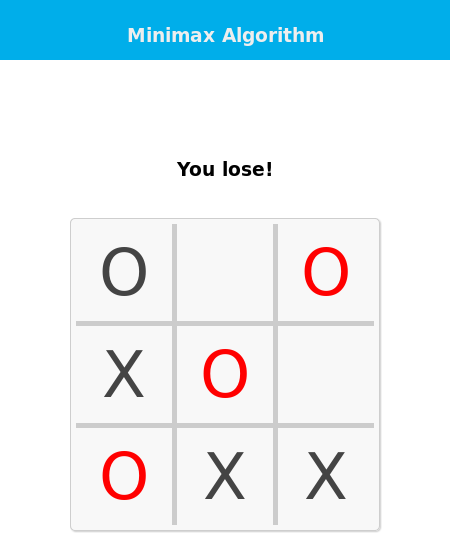
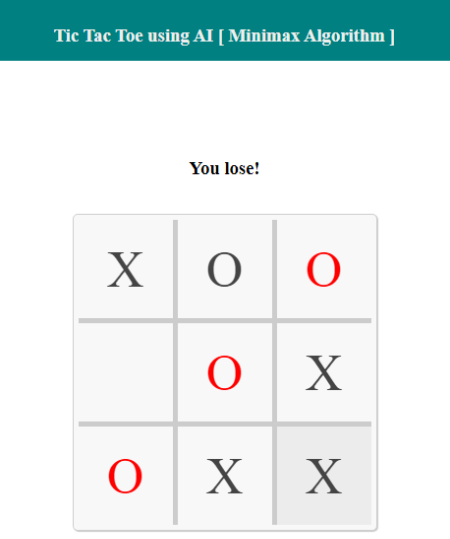
Updated

diff --git a/index.html b/index.html
@@ -17,7 +17,7 @@
 	</head>
 	<body>
 		<header>
-			<p>Implementing Tic Tac Toe using AI [ Minimax Algorithm ]</p>
+			<p>Tic Tac Toe using AI [ Minimax Algorithm ]</p>
 		</header>
 			<br />
 			<p id="message"></p>
@@ -28,7 +28,7 @@
 			<tr><td id="20" onclick="clickedCell(this)"></td><td id="21" onclick="clickedCell(this)"></td><td id="22" onclick="clickedCell(this)"></td></tr>
 		</table>
 		<br><br>
-		<input type="button" value="Start AI" id="bnt-restart" onclick="restartBnt(this)"/>
+		<input type="button" value="AI Player: Start" id="bnt-restart" onclick="restartBnt(this)"/>
 		<br />
 		<footer>
 			<p>About the Minimax Algorithm Read more on: <a href="https://github.com/iamrobbiejr/IIT414-TICTACTOE/blob/main/README.md">My Github</a></p>

diff --git a/web_assets/style.css b/web_assets/style.css
@@ -5,7 +5,7 @@ body {
 }
 
 header {
-	background-color: #00AEEA;
+	background-color: #008080;
 	color: #eee;
 	text-align: center;
 	height: 60px;
@@ -92,7 +92,7 @@ a:visited {
 	margin-left: auto;
 	margin-right: auto;
 	width: 200px;
-	background: #00AEEA;
+	background: #008080;
 	font-size: 1.5em;
 	color: #FFF;
 	border: none;
@@ -101,11 +101,11 @@ a:visited {
 }
 
 #bnt-restart:hover {
-	background: #1DC5FF;
+	background: #008000;
 }
 
 #bnt-restart:active {
-	background: #0787B3;
+	background: #008000;
 }
 
 #bnt-restart:disabled {

diff --git a/web_assets/script.js b/web_assets/script.js
@@ -213,7 +213,7 @@ function clickedCell(cell) {
 
 /* Restart the game*/
 function restartBnt(button) {
-	if (button.value == "Start AI") {
+	if (button.value == "AI Player: Start") {
 		aiTurn();
 		button.disabled = true;
 	}
@@ -229,7 +229,7 @@ function restartBnt(button) {
 				htmlBoard.innerHTML = "";
 			}
 		}
-		button.value = "Start AI";
+		button.value = "AI Player: Start";
 		msg = document.getElementById("message");
 		msg.innerHTML = "";
 	}

diff --git a/README.md b/README.md
@@ -1,5 +1,5 @@
-# tic-tac-toe-minimax
-An implementation of Minimax AI Algorithm on Tic-Tac-Toe (or Noughts and Crosses) game. Try it: [Tic-tac-toe - Minimax](https://cledersonbc.github.io/tic-tac-toe-minimax/)
+# Tic-Tac-Toe-Using-Minimax-Algorithm
+An implementation of Minimax AI Algorithm on Tic-Tac-Toe (or Noughts and Crosses) game. Try it: [Tic-tac-toe - Minimax](https://iamrobbiejr.github.io/)
 
 <p align="center">
 	<img src="preview/minimax_img.png"></img>
